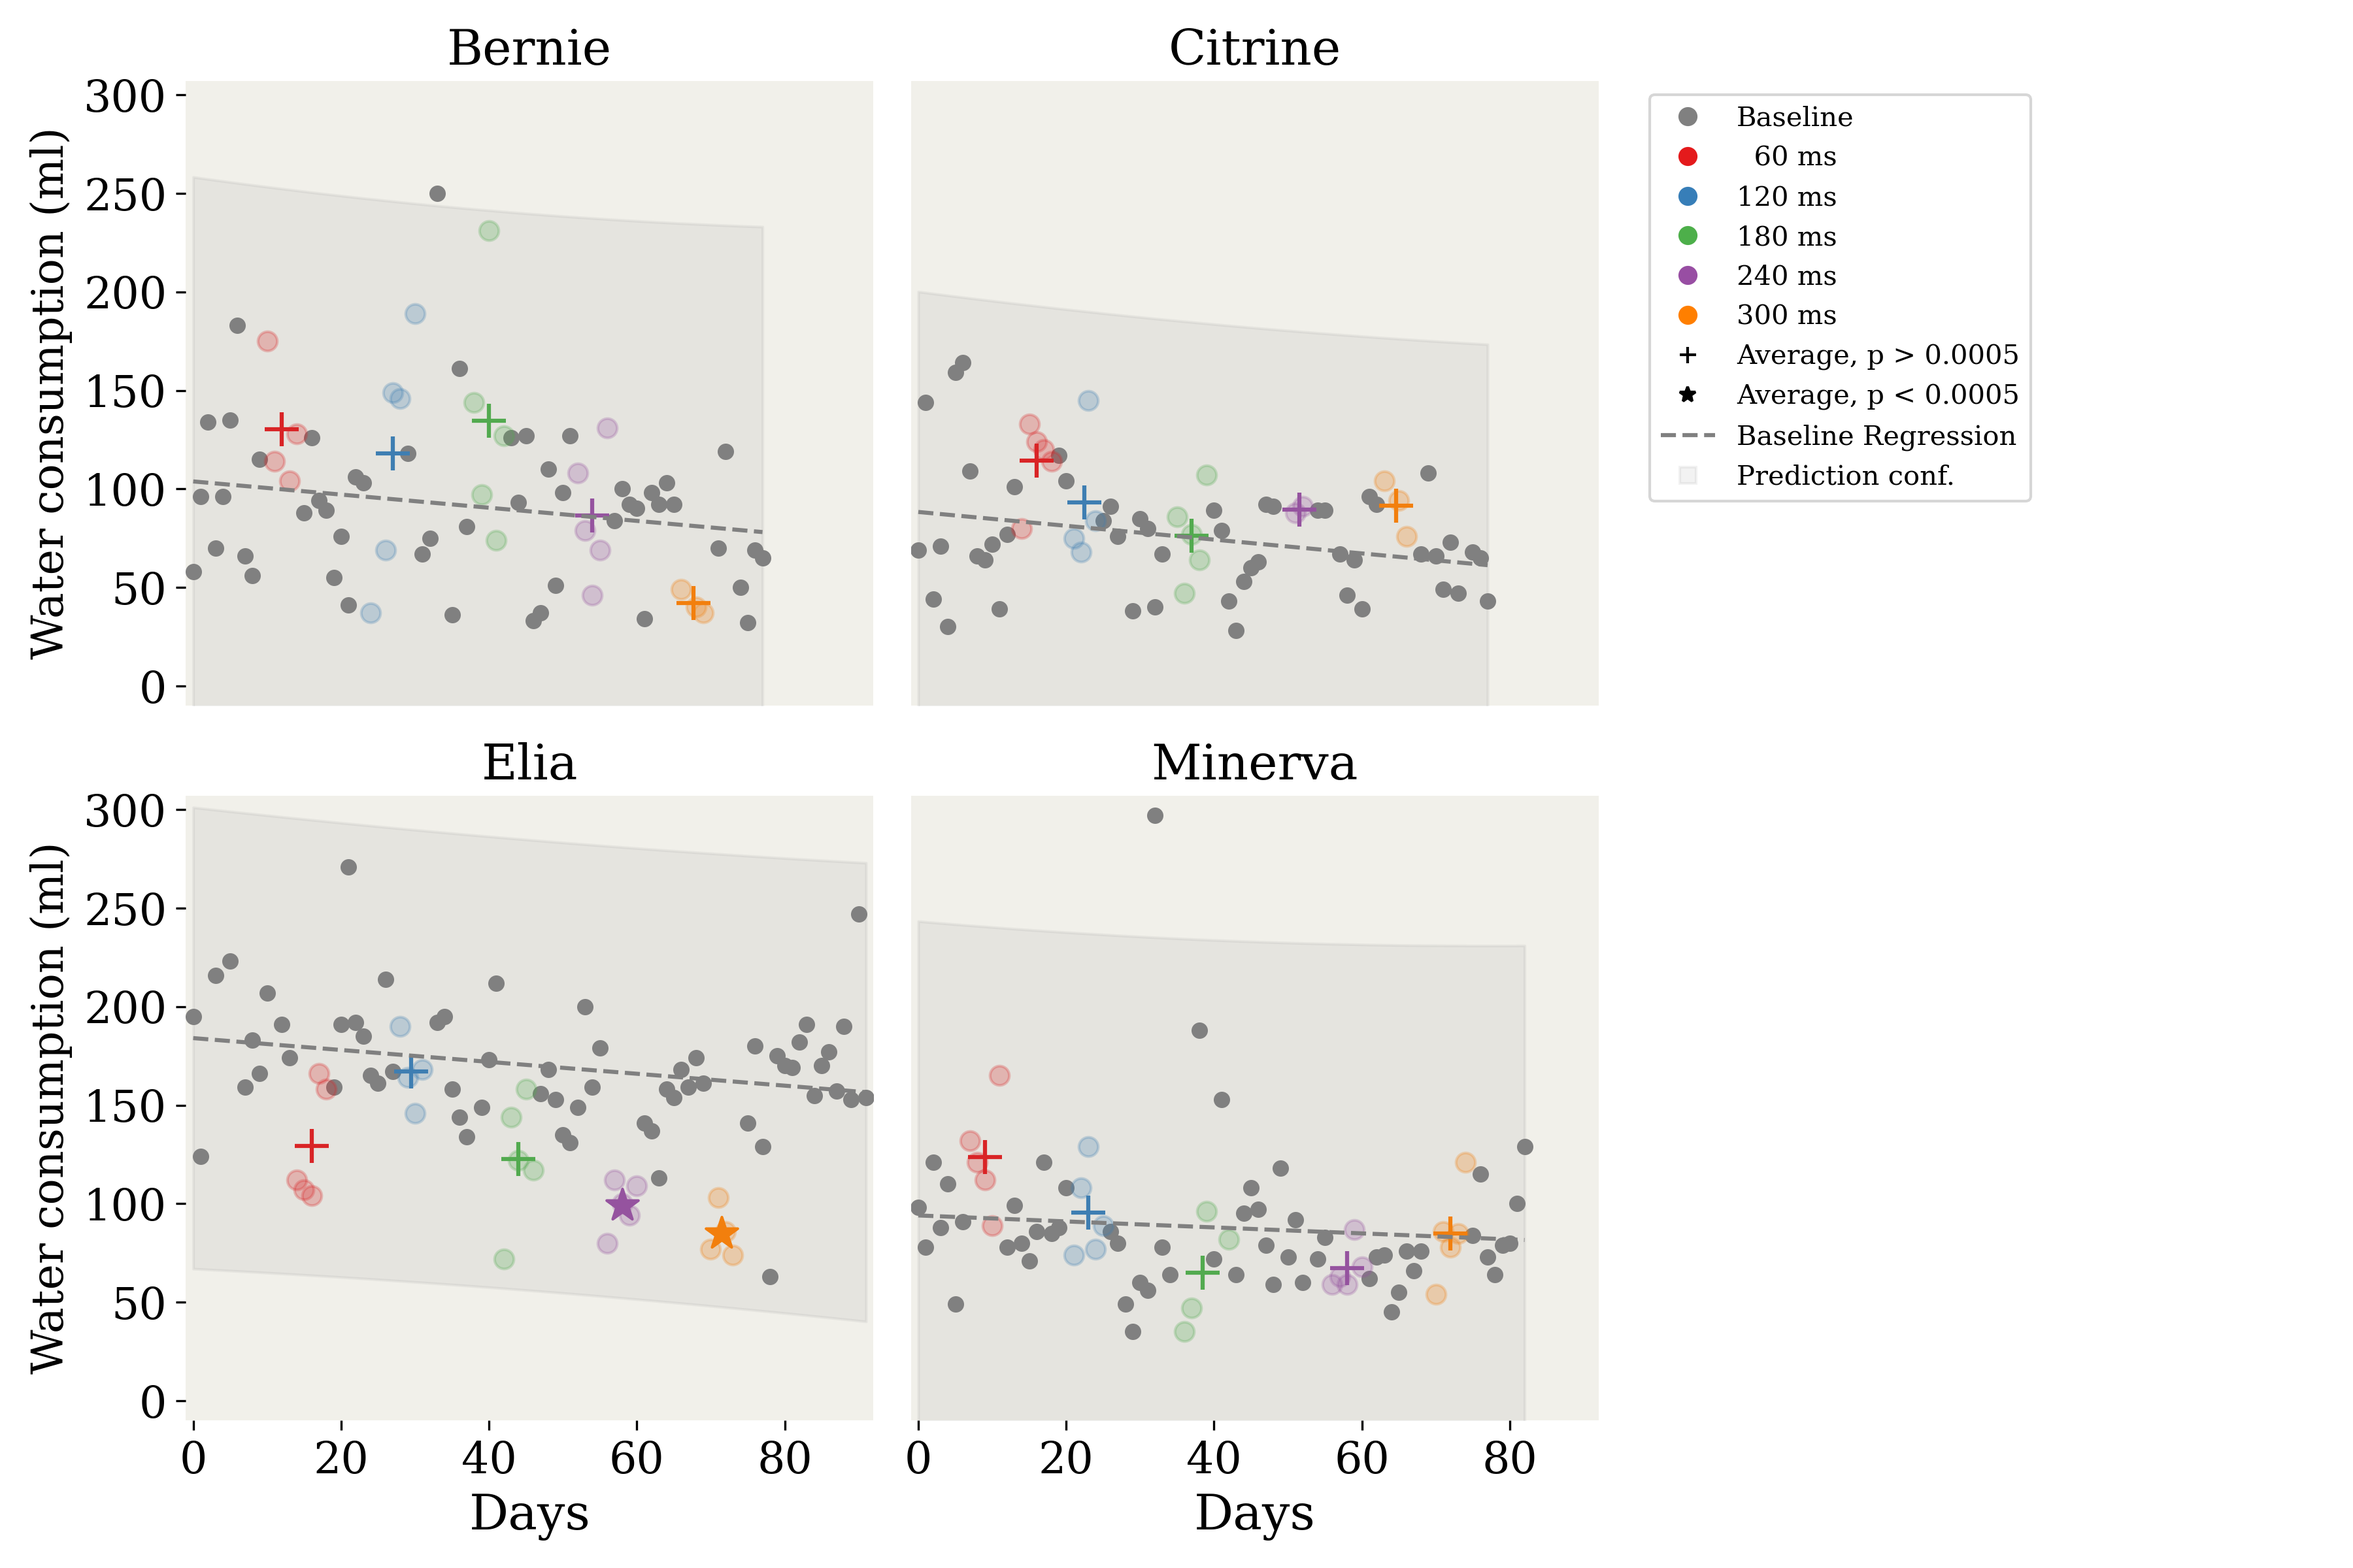
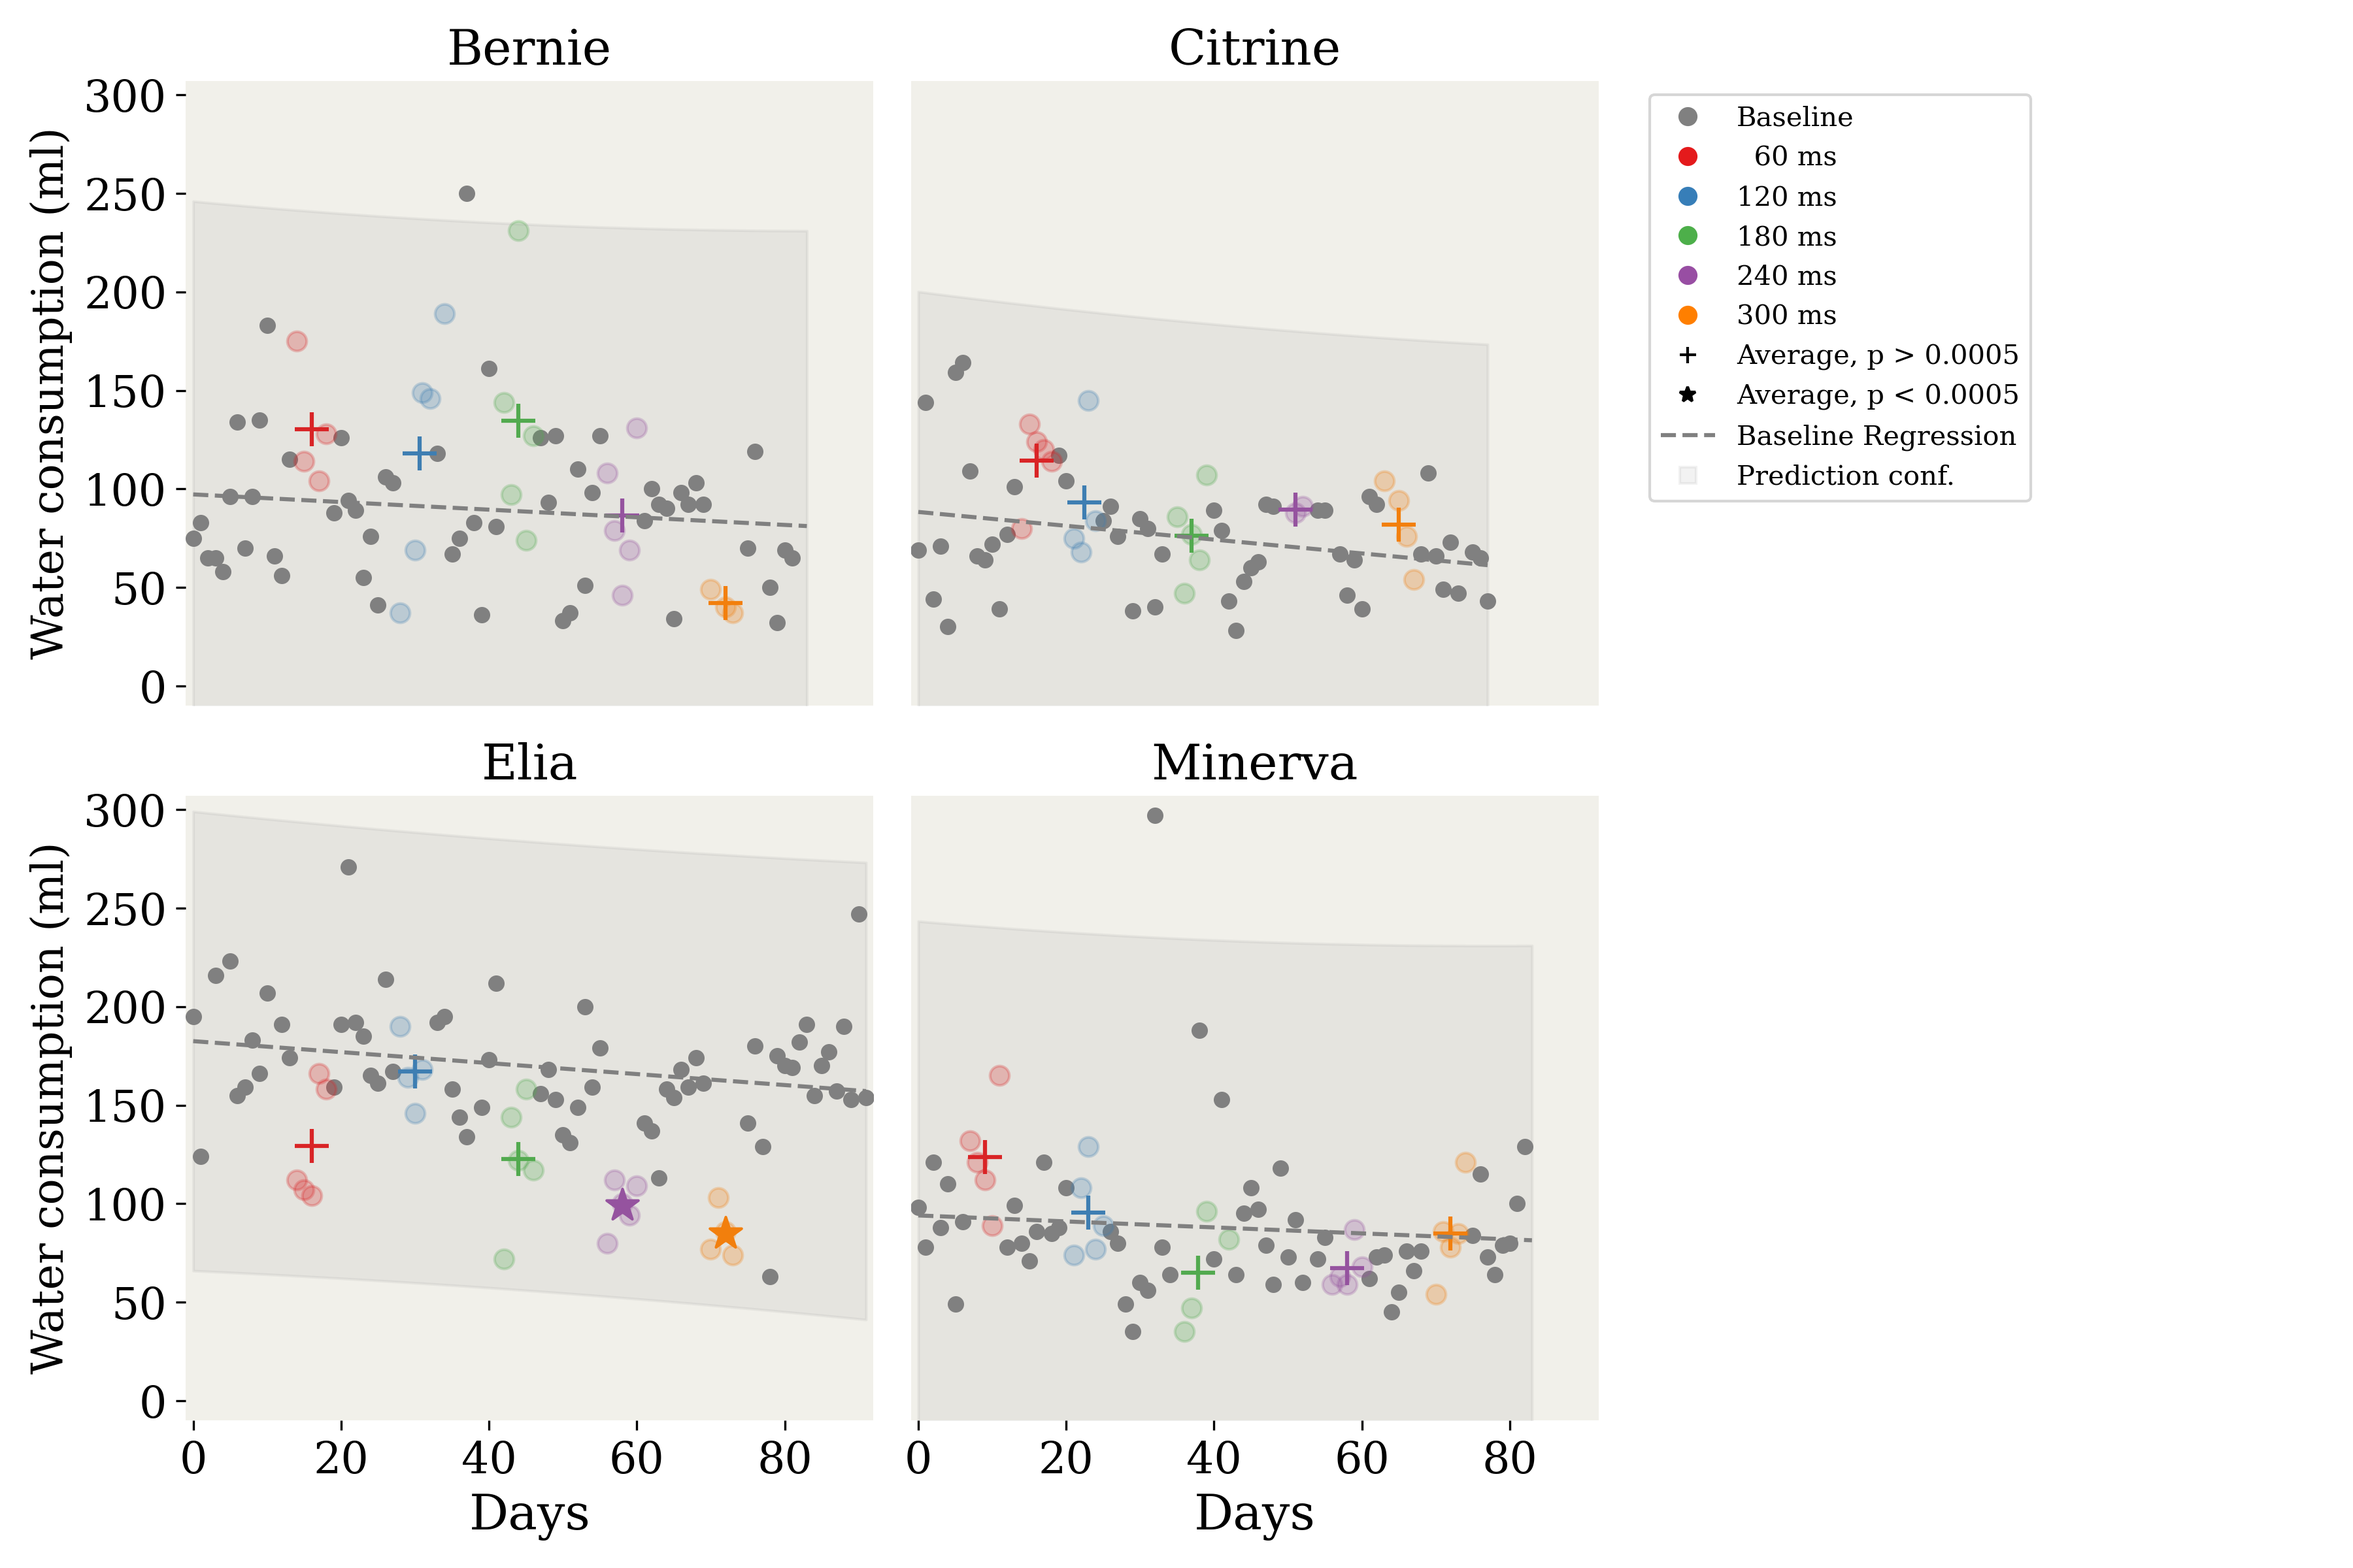
before adding activity data

diff --git a/process.py b/process.py
@@ -1,10 +1,14 @@
 import numpy
+import numpy as np
+import natsort
+
 from Library import Stats
 from Library import Settings
 from Library import Utils
 from Library import Legend
 from scipy.stats import ttest_ind
 from matplotlib import pyplot as plt
+from scipy.stats import kstest, norm
 import matplotlib
 
 ##########################
@@ -32,7 +36,10 @@ for dependent_variable in ['session', 'overnight', 'total']:
     max_plot_range = numpy.max(data[dependent_variable]) + 10
 
     cats = list(data.subject.unique())
+    cats = natsort.natsorted(cats)
+
     intervals = list(data.interval.unique())
+    if np.nan in intervals: intervals.remove(np.nan)
 
     plt.figure(figsize=figure_size)
 
@@ -62,22 +69,37 @@ for dependent_variable in ['session', 'overnight', 'total']:
             if interval != "baseline":
                 current_color = colors[interval]
                 mn_day = numpy.mean(selected_data.days)
-                predicted = Stats.predict(regression_result, mn_day)
-                shifted_residuals = predicted + residuals
+                prediction_mean = Stats.predict(regression_result, mn_day)
+                prediction_std =  regression_result['prstd']
+                shifted_residuals = residuals + prediction_mean
+
                 session_data = selected_data[dependent_variable].values
+
+                print(np.std(shifted_residuals), prediction_std)
+
+                try:
+                    session_data = session_data[~np.isnan(session_data)]
+                    stat, ks_result_p = kstest(session_data, 'norm', args=(prediction_mean, prediction_std))
+                except ValueError as ve:
+                    stat = 'NaN'
+                    ks_result_p = 1
+
+                formatted1 = Utils.format_ktest_result_apa(stat, ks_result_p, alpha_level)
+
                 tt_result = ttest_ind(session_data, shifted_residuals)
                 tt_result_p = tt_result[1]
-                formatted = Utils.format_ttest_result_apa(tt_result, alpha_level)
+                formatted2 = Utils.format_ttest_result_apa(tt_result, alpha_level)
+
                 marker = '+'
                 size = 150
-                if tt_result_p < alpha_level: marker = '*'
-                mn_session = numpy.mean(selected_data[dependent_variable])
+                if ks_result_p < alpha_level: marker = '*'
+                mn_session = numpy.nanmean(selected_data[dependent_variable])
                 plt.scatter(mn_day, mn_session, marker=marker, s=150, color=current_color)
                 if interval == '60': interval = '  ' + interval
                 custom_legend.add_entry(label=interval + ' ms', color=current_color, marker='o', linestyle='')
                 #print(interval, predicted, mn_session, max_day)
-                print(cat_name, interval, formatted)
-                statistics_line = f'{cat_name}, interval: {interval}, {formatted}\n'
+                print(cat_name, interval, formatted1, formatted2)
+                statistics_line = f'{cat_name}, interval: {interval}, {formatted1}, {formatted2}\n'
                 tests_output.write(statistics_line)
 
         custom_legend.add_entry(label=f'Average, p > {alpha_level}', color='black', marker='+', linestyle='')
@@ -125,3 +147,9 @@ for dependent_variable in ['session', 'overnight', 'total']:
     # plt.figure()
     # plt.hist(residuals, color=colors['baseline'])
     # plt.show()
+
+
+output_file = f"phase_{phase}_averages.xlsx"
+grps = data.groupby(['subject', 'interval'])
+mn = grps.session.agg(['mean', 'std'])
+mn.to_excel(output_file, index=True)

diff --git a/Library/Utils.py b/Library/Utils.py
@@ -1,4 +1,5 @@
 import pandas as pd
+import numpy as np
 
 def plot_nr(phase, index):
     if phase == 1:
@@ -13,6 +14,15 @@ def plot_nr(phase, index):
         if index == 1: return 2
         if index > 1: return 3
 
+
+def format_ktest_result_apa(statistic, pvalue, alpha=0.05):
+    if statistic == 'NaN': return f"k = NaN, p = NaN"
+    if pvalue < alpha:
+        formatted_pvalue = "p < " + str(alpha)
+    else:
+        formatted_pvalue = f"p = {pvalue:.2f}"
+    formatted_output = f"k = {statistic:.2f}, {formatted_pvalue}"
+    return formatted_output
 
 
 def format_ttest_result_apa(ttest_result, alpha=0.05):
@@ -36,12 +46,26 @@ def read_phase(phase):
     data['date'] = pd.to_datetime(data['date'])  # Convert 'date' column to datetime
     earliest_date = data['date'].min()  # Find the earliest date
     data['days'] = (data['date'] - earliest_date).dt.days  # Calculate days since earliest date
-    data = data.dropna()
-    data = add_block_number(data)
-    data = data.query('session > 0') #remove negative amount of drinking
-    data = data.query('overnight > 0')
-    data = data.query('total > 0')
-    data = data.query('overnight < 300') # remove outliers
+
+    # Original DataFrame
+    original_data = pd.DataFrame(data)
+    #data = data.dropna()
+    #data = add_block_number(data)
+    #data = data.query('session > 0') #remove negative amount of drinking
+    #data = data.query('overnight > 0')
+    #data = data.query('total > 0')
+
+    data.loc[data['session'] <= 0, 'session'] = np.nan
+    data.loc[data['overnight'] <= 0, 'overnight'] = np.nan
+    data.loc[data['total'] <= 0, 'total'] = np.nan
+
+    data.loc[data['overnight'] > 300, 'total'] = np.nan
+    data.loc[data['overnight'] > 300, 'overnight'] = np.nan
+
+    # Print removed rows
+    #removed_data = original_data[~original_data.index.isin(data.index)]
+    #print("Removed rows:")
+    #print(removed_data)
 
     if phase == 1:
         cutoff_date = pd.to_datetime('7-3-23', format='%m-%d-%y')
@@ -55,8 +79,6 @@ def read_phase(phase):
         cutoff_date = pd.to_datetime('8-13-23', format='%m-%d-%y')
         data2 = data.loc[(data['subject'] == 'Elia') & (data['date'] > cutoff_date)]
         data = pd.concat([data1, data2])
-
-
 
     return data
 

diff --git a/Library/Stats.py b/Library/Stats.py
@@ -1,19 +1,22 @@
 import statsmodels.api as sm
 import numpy as np
 from matplotlib import pyplot as plt
+from statsmodels.sandbox.regression.predstd import wls_prediction_std
 
 def regression(data, column, alpha):
     x = data['days'].values
     y = data[column].values
     x_with_const = sm.add_constant(x)
     # Fit the linear regression model
-    model = sm.OLS(y, x_with_const)
+    model = sm.OLS(y, x_with_const, missing='drop')
     results = model.fit()
     # Extract slope and intercept
     slope = results.params[1]
     intercept = results.params[0]
     residuals = results.resid
     predictions = results.get_prediction(x_with_const).summary_frame(alpha)
+    prstd, iv_l, iv_u = wls_prediction_std(results)
+    prstd = np.mean(prstd) # I don't know why prstd is an array. So, here I average it to a single number.
     # Create a dictionary with the results
     results_dict = {
         'x': x,
@@ -27,7 +30,8 @@ def regression(data, column, alpha):
         'model': model,
         'results': results,
         'predictions': predictions,
-        'df': x_with_const
+        'df': x_with_const,
+        'prstd': prstd
     }
 
     return results_dict
